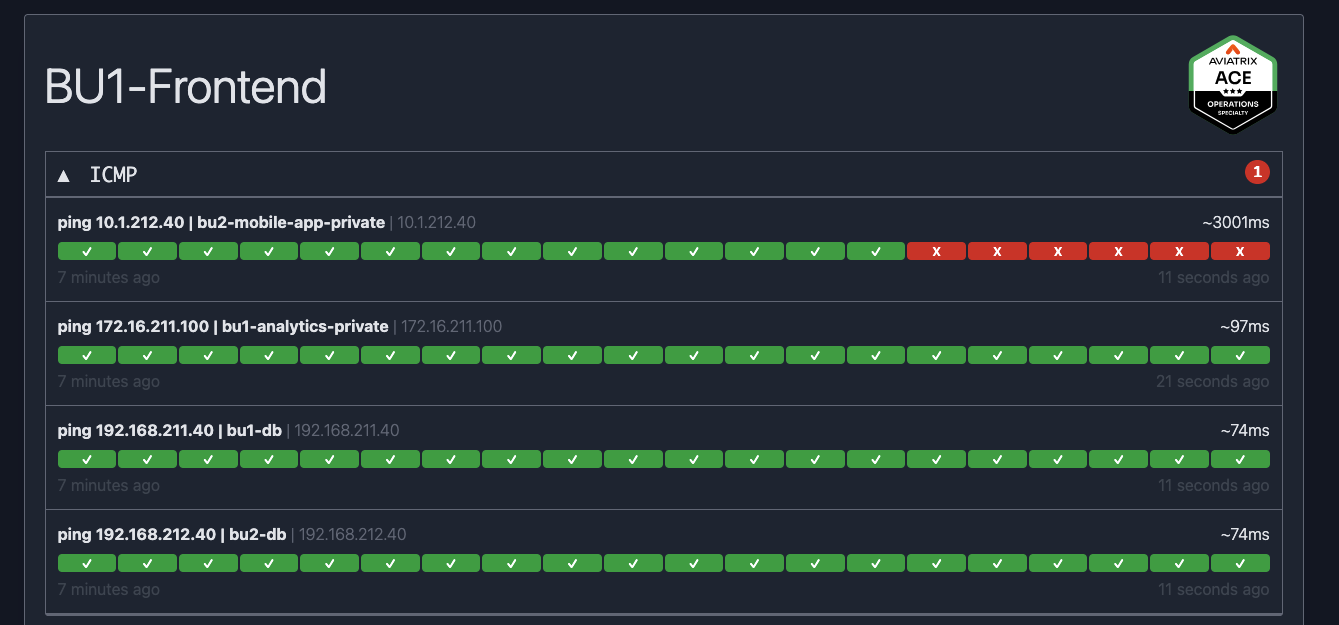
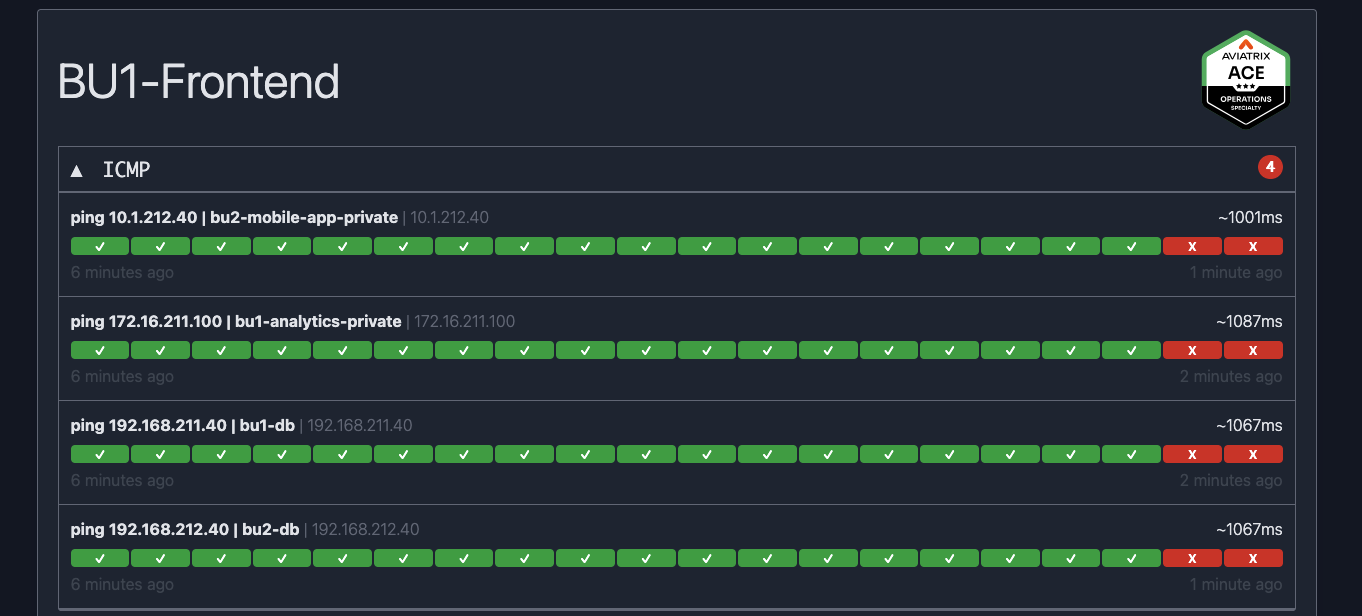
update for ops

Changed region(s): [[0.0306, 0.0, 0.9798, 0.586], [0.0306, 0.6477, 0.9798, 1.0], [0.0306, 0.0925, 0.2756, 0.1851]]

diff --git a/ace_ops/docs/lab4.md b/ace_ops/docs/lab4.md
@@ -2,9 +2,9 @@
 
 ## 1. SCENARIO
 
-**BU1** and **BU2** were able to communicate as end of Lab3.
+**BU1** and **BU2** were able to communicate by the end of Lab 3.
 
-Unfortunately, the network team received another complaint from BU1 Frontend Team that BU2 Mobile App was no longer reachable.
+Unfortunately, the Network team has received another complaint from the **BU1 Frontend** team. Once again, all instances in the BU1 Network > Domain are unreachable, and the two instances in the other BU1 network domains are also unreachable again.
 
 ```{figure} images/lab4-topology.png
 ---
@@ -20,7 +20,7 @@ Let’s move forward with the troubleshooting. Verify the connectivity between *
 
 ### 2.1 Connectivity verification Using Gatus
 
-Re-analyzing the **BU1 Frontend** Gatus dashboard shows that **BU2 Mobile** App traffic is blocked, but traffic to the other instances is allowed...
+A review of the **BU1 Frontend** Gatus dashboard shows that east–west traffic to the other instances is impacted again.
 
 Let's start troubleshooting.
 
